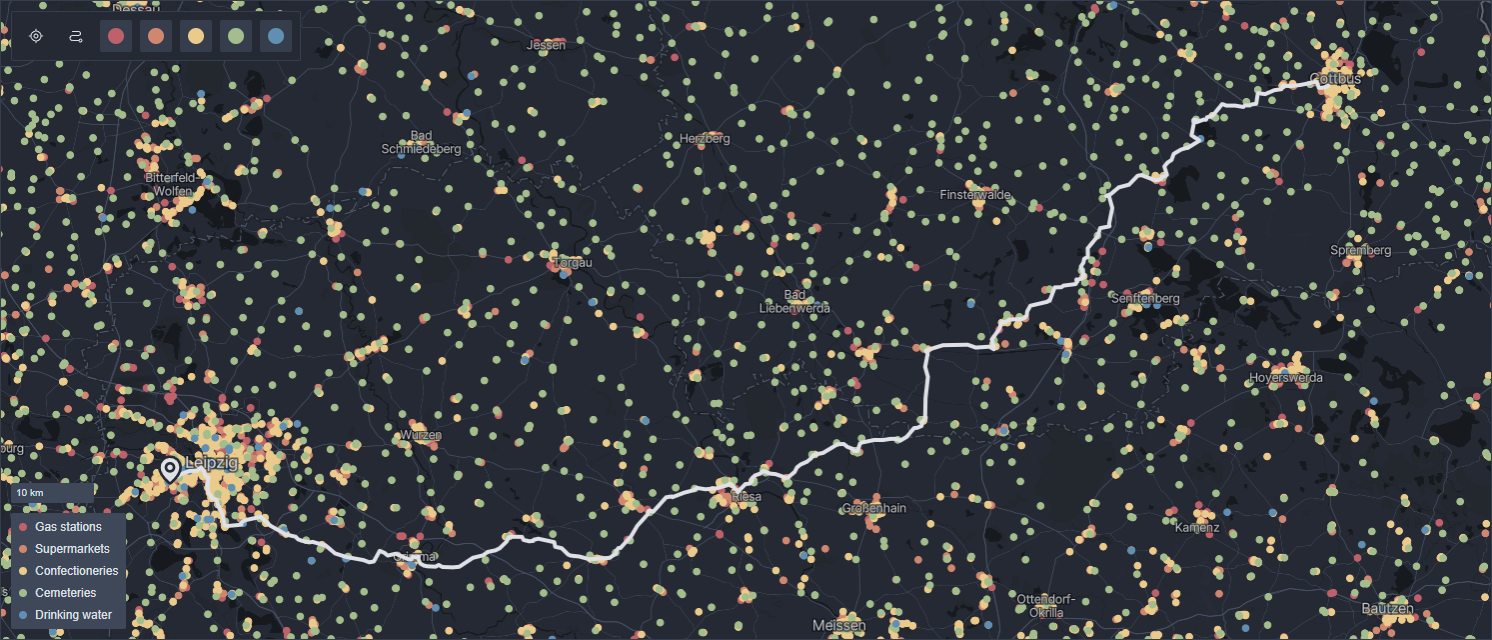
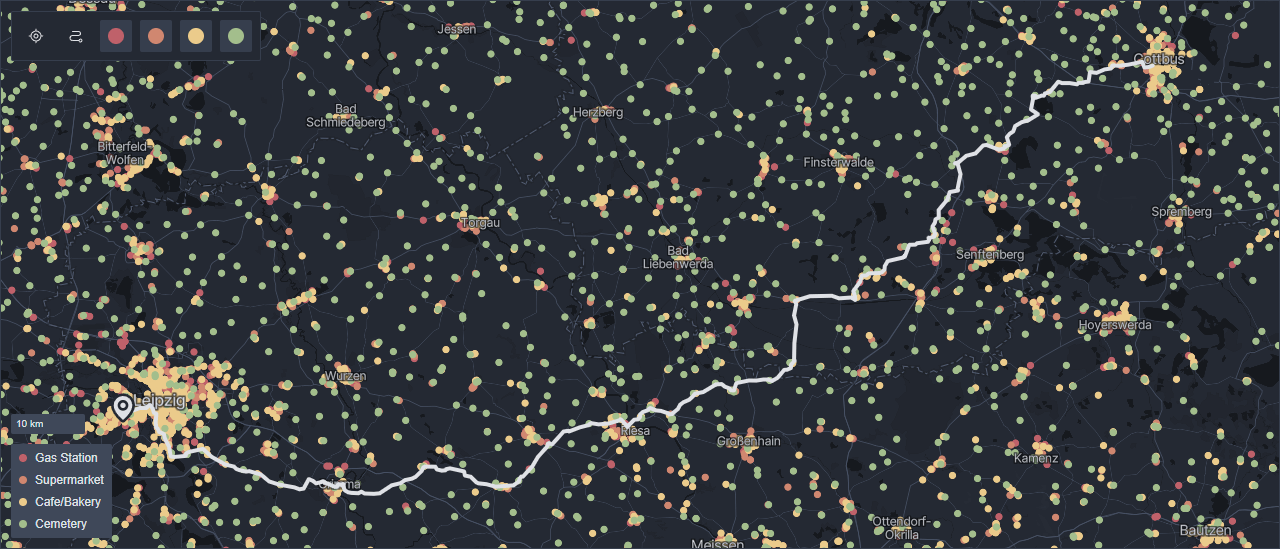
update poi section in projects

Changed region(s): [[0.0, 0.0, 1.0, 1.0], [0.9688, 0.5883, 1.0, 0.6503], [0.8438, 0.7122, 0.875, 0.7432]]

diff --git a/content/projects/index.md b/content/projects/index.md
@@ -5,7 +5,7 @@ showTitle: false
 ---
 
 # poi
-[poi](https://github.com/jsmolka/poi) is a [web app](https://poi.smolka.dev) that visualizes cycling-related points of interest on a map. The data is sourced using [OpenStreetMap's Overpass API](https://wiki.openstreetmap.org/wiki/Overpass_API) and includes locations of supermarkets, confectioneries, gas stations and even cemeteries for emergency water refills. It can also display GPX files to assist with planning.
+[poi](https://github.com/jsmolka/poi) is a [web app](https://poi.smolka.dev) that visualizes cycling-related points of interest on a map. The data is sourced using [OpenStreetMap's Overpass API](https://wiki.openstreetmap.org/wiki/Overpass_API) and includes locations of gas stations, supermarkets, cafes and even cemeteries for emergency water refills. It can also display GPX files to assist with planning.
 
 ![](img/poi.png "Route from Leipzig to Cottbus")
 
